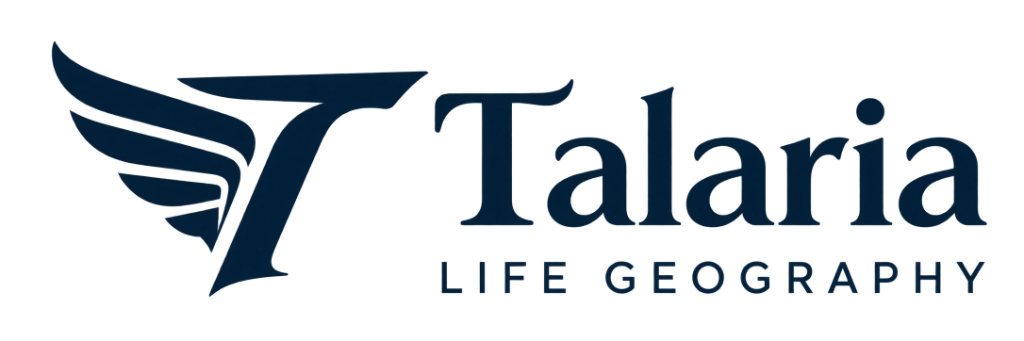
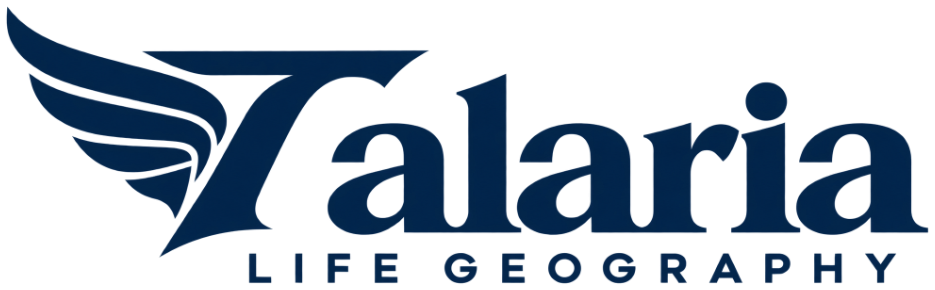
Use the new wordmark on chrome and the sandal only on Agora and Overview heroes.
Drop the home eyebrow and punch the brand PNGs so light and dark stay readable.

diff --git a/web/src/styles/talaria-brand.css b/web/src/styles/talaria-brand.css
@@ -1,4 +1,4 @@
-/* web/src/styles/talaria-brand.css — sandal mark + live type */
+/* web/src/styles/talaria-brand.css — sandal + winged-T wordmark */
 
 .talaria-brand-lockup {
   display: inline-flex;
@@ -10,82 +10,56 @@
 }
 
 .talaria-brand-lockup--hero {
-  gap: clamp(12px, 2.4vw, 18px);
+  gap: clamp(12px, 2.2vw, 16px);
 }
 
-.talaria-brand-lockup__mark {
-  flex-shrink: 0;
-  overflow: hidden;
-  height: 2.25rem;
-  width: 3.6rem;
-}
-
-.talaria-brand-lockup--hero .talaria-brand-lockup__mark {
-  height: clamp(3.5rem, 8vw, 5.4rem);
-  width: clamp(5.6rem, 13vw, 8.6rem);
-}
-
-.talaria-brand-lockup__sandal {
+.talaria-brand-lockup__logo {
   display: block;
-  width: 100%;
-  height: 100%;
-  object-fit: cover;
-  object-position: center;
-  transform: scale(2.55);
-  transform-origin: center center;
+  height: 2.15rem;
+  width: auto;
+  max-width: min(52vw, 260px);
+  object-fit: contain;
 }
 
-[data-theme="light"] .talaria-brand-lockup__sandal {
-  filter: grayscale(1) invert(1);
-  mix-blend-mode: multiply;
+.talaria-brand-lockup--hero .talaria-brand-lockup__logo {
+  height: clamp(3.1rem, 7.5vw, 4.8rem);
+  max-width: min(70vw, 420px);
 }
 
-[data-theme="dark"] .talaria-brand-lockup__sandal {
-  filter: grayscale(1);
-  mix-blend-mode: lighten;
+[data-theme="light"] .talaria-brand-lockup__logo {
+  filter: none;
 }
 
-.talaria-brand-lockup__type {
-  display: flex;
-  flex-direction: column;
-  gap: 1px;
-  min-width: 0;
+[data-theme="dark"] .talaria-brand-lockup__logo {
+  filter: brightness(0) invert(1) sepia(0.22) saturate(0.35);
 }
 
-.talaria-brand-lockup__name {
-  font-family: var(--font-display);
-  font-weight: 600;
-  letter-spacing: 0.04em;
-  line-height: 1;
-  color: #16324a;
+.navbar__link-with-mark,
+.talaria-heading-with-mark {
+  display: inline-flex;
+  align-items: center;
+  gap: 0.4em;
 }
 
-.talaria-brand-lockup--navbar .talaria-brand-lockup__name {
-  font-size: 1.28rem;
+.talaria-sandal-mark {
+  display: block;
+  height: 1.05em;
+  width: auto;
+  object-fit: contain;
 }
 
-.talaria-brand-lockup--hero .talaria-brand-lockup__name {
-  font-size: clamp(2.1rem, 6.2vw, 3.4rem);
+.talaria-heading-with-mark .talaria-sandal-mark {
+  height: 0.85em;
 }
 
-.talaria-brand-lockup__tagline {
-  font-size: 0.62rem;
-  font-weight: 600;
-  letter-spacing: 0.18em;
-  text-transform: uppercase;
-  color: #2a4a63;
-  line-height: 1.2;
+.talaria-heading-with-mark--tab .talaria-sandal-mark {
+  height: 0.95em;
 }
 
-.talaria-brand-lockup--hero .talaria-brand-lockup__tagline {
-  font-size: clamp(0.62rem, 1.5vw, 0.78rem);
-  letter-spacing: 0.22em;
+[data-theme="light"] .talaria-sandal-mark {
+  filter: none;
 }
 
-[data-theme="dark"] .talaria-brand-lockup__name {
-  color: #f7f3ea;
-}
-
-[data-theme="dark"] .talaria-brand-lockup__tagline {
-  color: rgba(247, 243, 234, 0.82);
+[data-theme="dark"] .talaria-sandal-mark {
+  filter: brightness(1.45) contrast(1.08) saturate(0.9);
 }

diff --git a/web/src/components/brand/talaria-brand-lockup.tsx b/web/src/components/brand/talaria-brand-lockup.tsx
@@ -1,31 +1,25 @@
 // web/src/components/brand/talaria-brand-lockup.tsx
-import { BRAND_SANDAL } from "@/components/brand/brand-assets";
+import { BRAND_WORDMARK_WINGED_T } from "@/components/brand/brand-assets";
 import { useI18n } from "@/lib/i18n";
 
 interface TalariaBrandLockupProps {
   variant: "navbar" | "hero";
 }
 
-/** Standalone winged sandal (B&W, no plate) beside live type. */
+/** Winged-T wordmark, recolored per theme. */
 export function TalariaBrandLockup({ variant }: TalariaBrandLockupProps) {
   const { t } = useI18n();
   const wrapClass = `talaria-brand-lockup talaria-brand-lockup--${variant}`;
 
   return (
     <span className={wrapClass}>
-      <span className="talaria-brand-lockup__mark" aria-hidden>
-        <img
-          src={BRAND_SANDAL}
-          alt=""
-          className="talaria-brand-lockup__sandal"
-          decoding="async"
-          draggable={false}
-        />
-      </span>
-      <span className="talaria-brand-lockup__type">
-        <span className="talaria-brand-lockup__name">{t.productName}</span>
-        <span className="talaria-brand-lockup__tagline">{t.productSubtitle}</span>
-      </span>
+      <img
+        src={BRAND_WORDMARK_WINGED_T}
+        alt={t.productName}
+        className="talaria-brand-lockup__logo"
+        decoding="async"
+        draggable={false}
+      />
     </span>
   );
 }

diff --git a/web/src/pages/agora-page.tsx b/web/src/pages/agora-page.tsx
@@ -5,6 +5,7 @@ import { AgoraPanel } from "@/components/explorer/agora-panel";
 import { LaneIngestBar } from "@/components/explorer/lane-ingest-bar";
 import { IntuitionStanceBar } from "@/components/intuition/intuition-stance-bar";
 import { Navbar } from "@/components/layout/navbar";
+import { TalariaSandalMark } from "@/components/brand/talaria-sandal-mark";
 import { WalletConnectButton } from "@/components/wallet/wallet-connect-button";
 import { EntitySearchBox } from "@/components/search/entity-search-box";
 import { usePersonPicker } from "@/hooks/use-person-picker";
@@ -142,7 +143,12 @@ export function AgoraPage() {
         <section className="hero hero--landing hero--home hero--agora hero--agora-photo px-4 py-8">
           <div className="mx-auto max-w-3xl">
             <p className="hero__eyebrow">{localizedPersonLabel(entityLabel, locale) || t.agora}</p>
-            <h1 className="hero__title hero__title--agora text-4xl">{t.agora}</h1>
+            <h1 className="hero__title hero__title--agora text-4xl">
+              <span className="talaria-heading-with-mark">
+                <TalariaSandalMark />
+                {t.agora}
+              </span>
+            </h1>
             <p className="hero__subtitle">{t.agoraHint}</p>
             {entityId ? (
               <div className="mt-4 max-w-lg intuition-panel">

diff --git a/web/src/features/entity/entity-page.tsx b/web/src/features/entity/entity-page.tsx
@@ -4,6 +4,7 @@ import { EntitySearchBox } from "@/components/search/entity-search-box";
 import { usePersonPicker } from "@/hooks/use-person-picker";
 import { useExplorerStore } from "@/stores/explorer-store";
 import { Navbar } from "@/components/layout/navbar";
+import { TalariaSandalMark } from "@/components/brand/talaria-sandal-mark";
 import { EventDetailCard } from "@/components/detail/event-detail-card";
 import {
   fetchEntityBibliography,
@@ -281,7 +282,12 @@ export function EntityPage() {
             <div className="v3-heading">
               <div>
                 <p className="v3-eyebrow">TALARIA · EXPLORER</p>
-                <h1>{overview?.entity.label ?? (entityId ? "Loading…" : "Overview")}</h1>
+                <h1>
+                  <span className="talaria-heading-with-mark">
+                    <TalariaSandalMark />
+                    {overview?.entity.label ?? (entityId ? "Loading…" : "Overview")}
+                  </span>
+                </h1>
                 <p>Explore a life through time, places and evidence.</p>
               </div>
             </div>

diff --git a/web/src/components/brand/talaria-sandal-mark.tsx b/web/src/components/brand/talaria-sandal-mark.tsx
@@ -1,0 +1,18 @@
+// web/src/components/brand/talaria-sandal-mark.tsx
+import { BRAND_SANDAL } from "@/components/brand/brand-assets";
+
+interface TalariaSandalMarkProps {
+  className?: string;
+}
+
+export function TalariaSandalMark({ className = "" }: TalariaSandalMarkProps) {
+  return (
+    <img
+      src={BRAND_SANDAL}
+      alt=""
+      className={`talaria-sandal-mark ${className}`.trim()}
+      decoding="async"
+      draggable={false}
+    />
+  );
+}

diff --git a/web/src/pages/home-page.tsx b/web/src/pages/home-page.tsx
@@ -78,7 +78,6 @@ export function HomePage() {
         >
           <div className="hero__grid">
             <div className="hero__copy">
-              <p className="hero__eyebrow">{t.heroEyebrow}</p>
               <h1 id="home-hero-title" className="hero__title hero__title--wordmark">
                 <TalariaHeroWordmark />
               </h1>

diff --git a/web/index.html b/web/index.html
@@ -9,7 +9,7 @@
       rel="stylesheet"
     />
     <meta name="viewport" content="width=device-width, initial-scale=1.0, viewport-fit=cover" />
-    <link rel="icon" href="/brand/wordmark-winged-t.png" type="image/png" />
+    <link rel="icon" href="/brand/talaria-sandal.png" type="image/png" />
     <title>Talaria</title>
   </head>
   <body>
